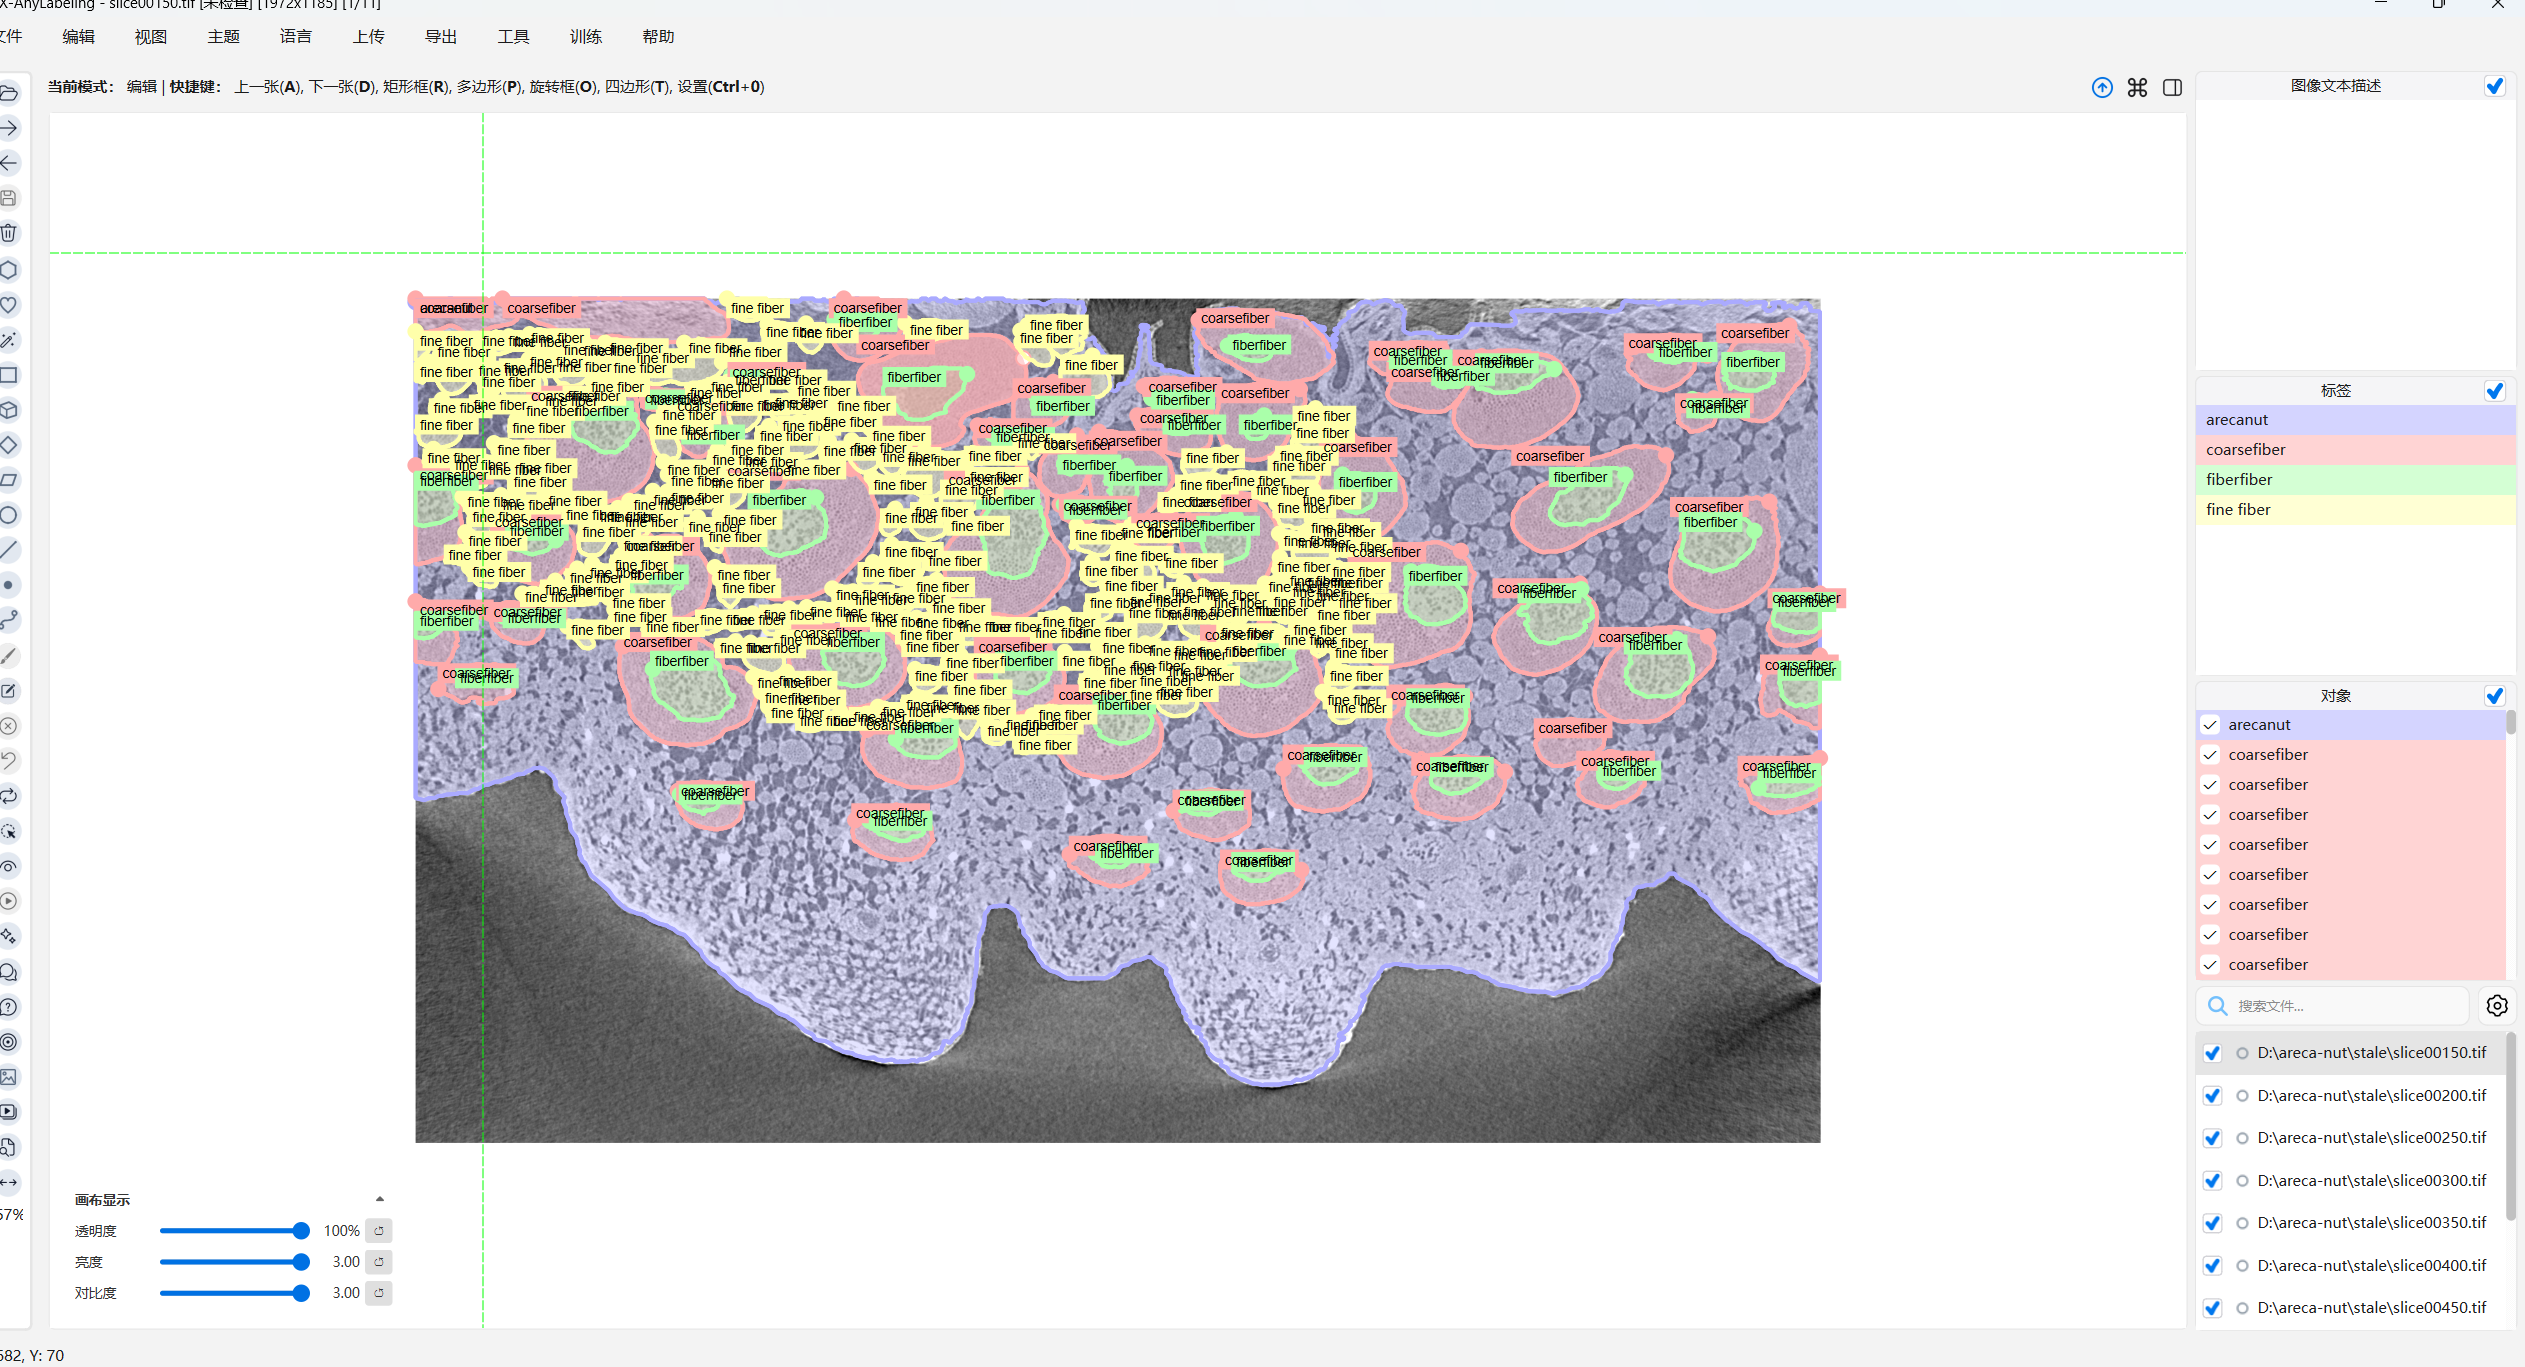
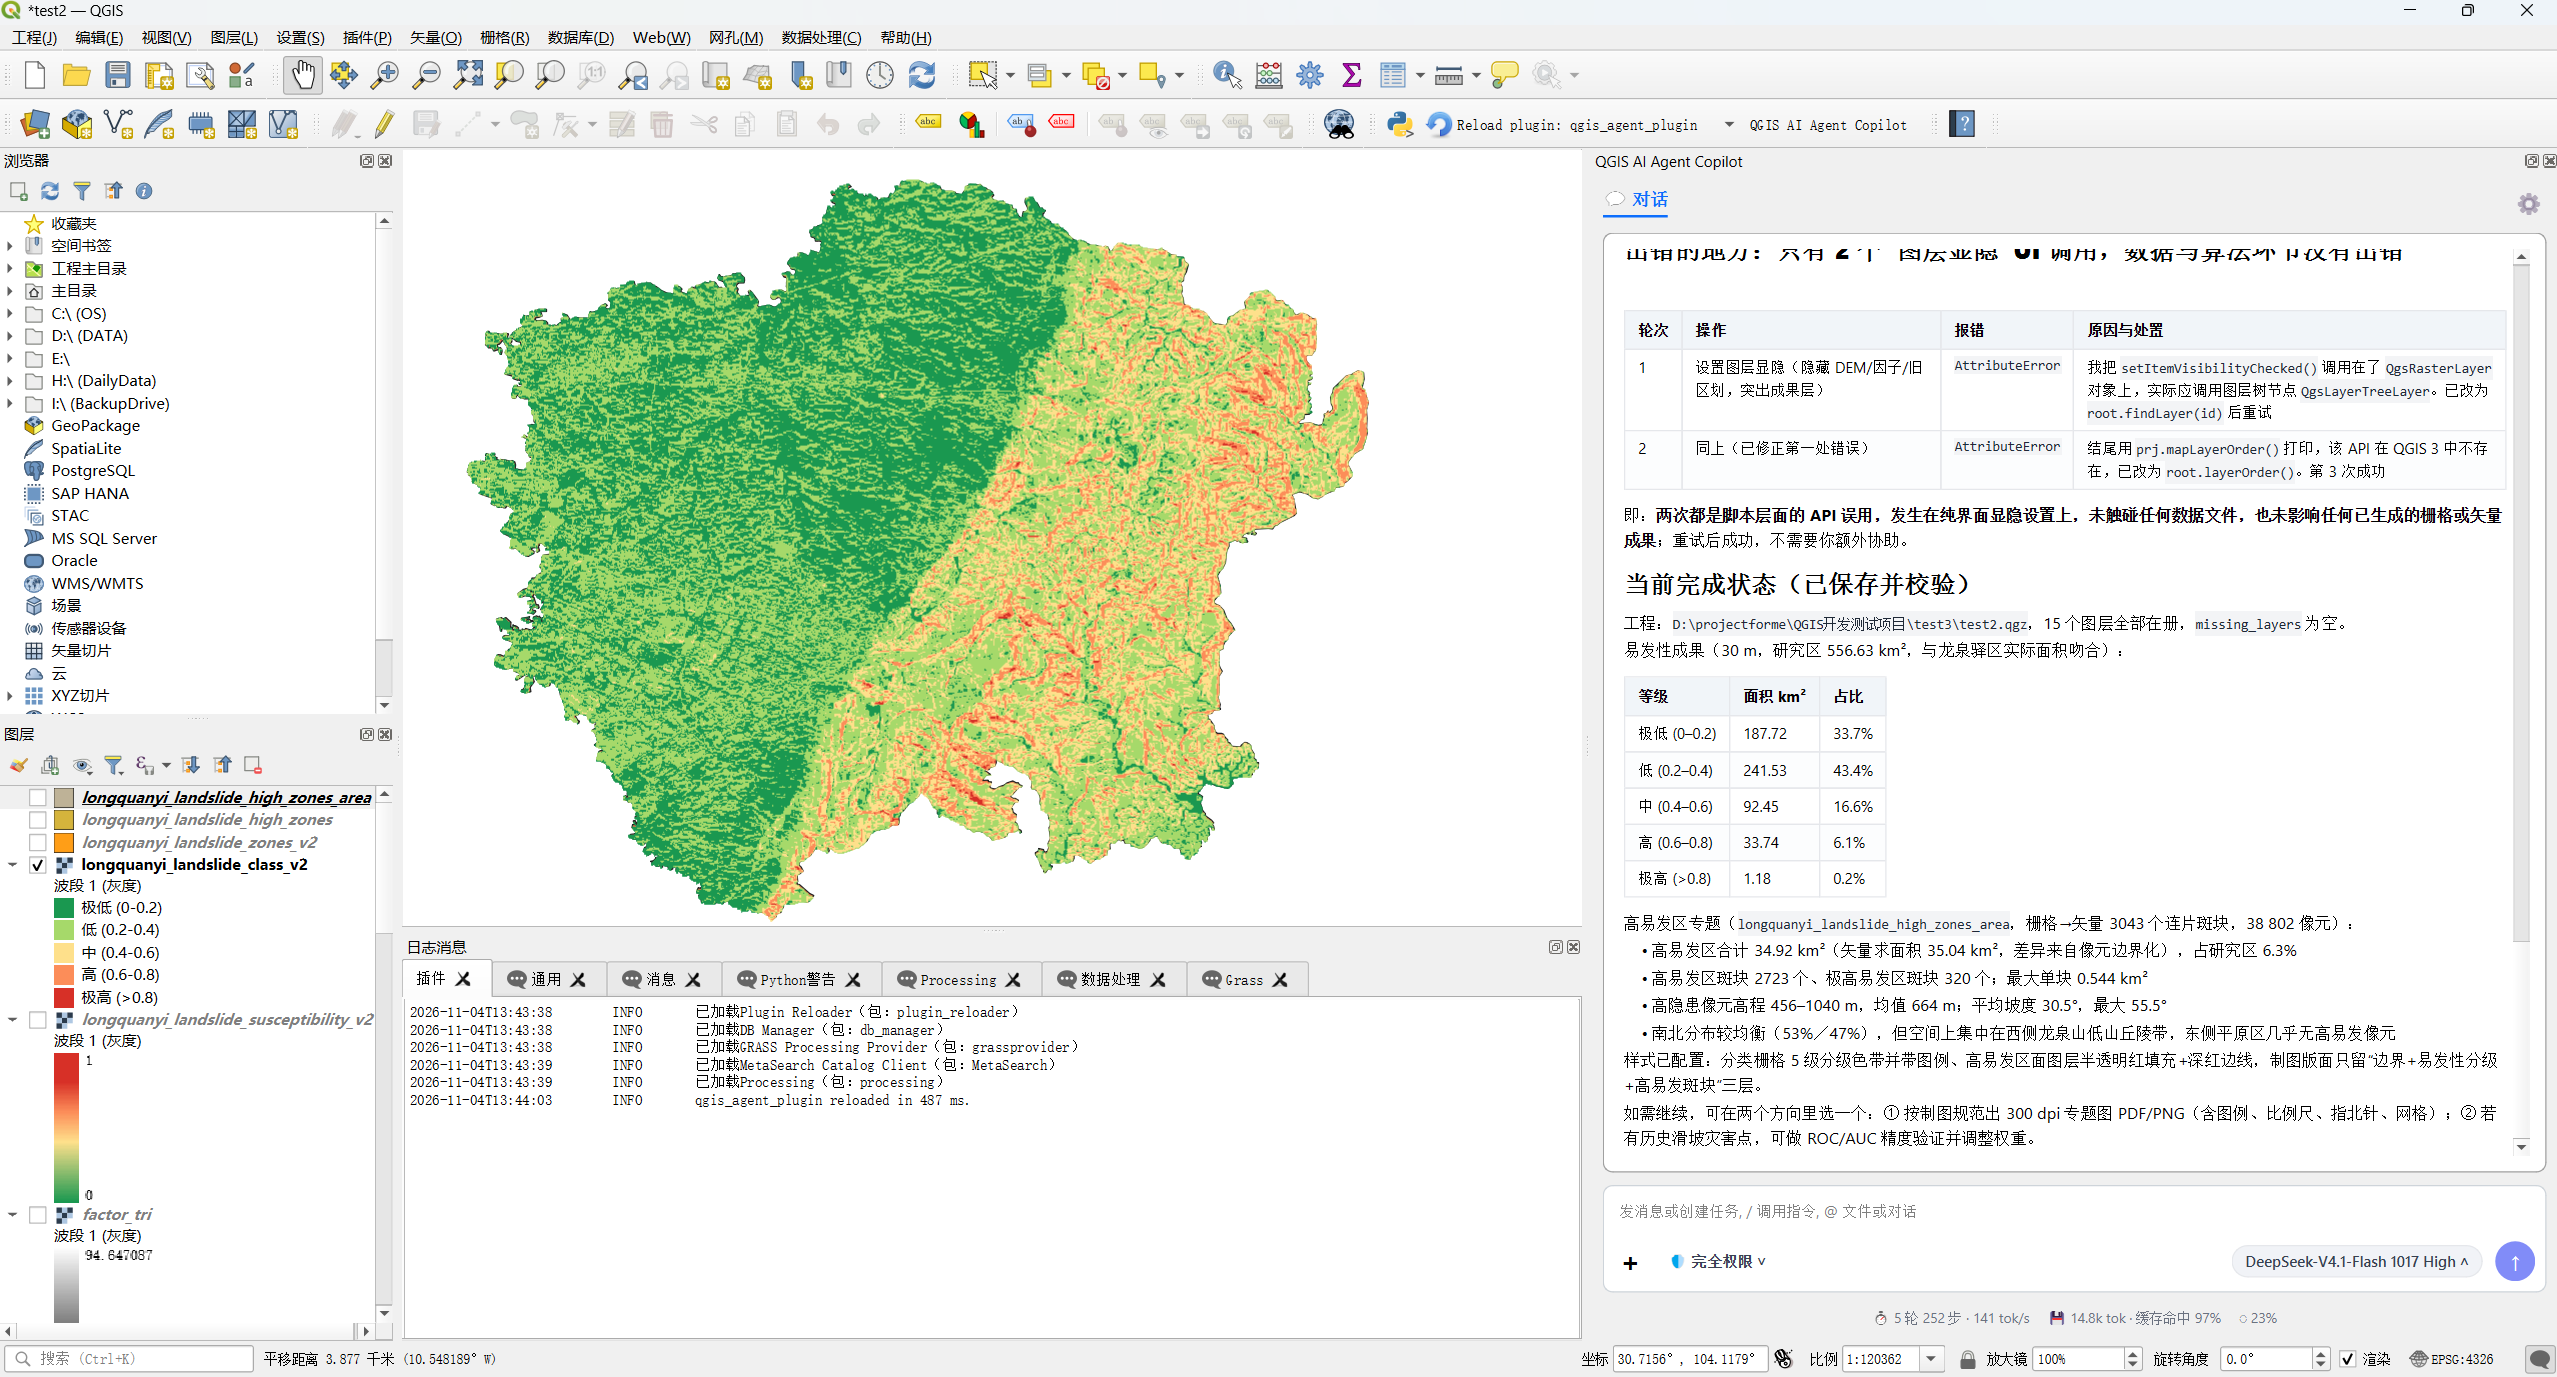
docs: showcase Longquanyi landslide susceptibility analysis and GEE task progress

diff --git a/README.md b/README.md
@@ -57,20 +57,20 @@
 
 <table>
 <tr>
-<td width="50%" align="center"><b>OSM 交通路网获取、裁剪与分级渲染</b></td>
-<td width="50%" align="center"><b>DEM 填洼、流向与水文分析</b></td>
+<td width="50%" align="center"><b>四川成都龙泉驿区：DEM 与多光谱指数协同滑坡易发性智能评价</b></td>
+<td width="50%" align="center"><b>遥感影像机器学习分类与跨区域迁移解译推理</b></td>
 </tr>
 <tr>
-<td><img src="docs/images/demo_osm_transport.png" alt="OSM 交通路网"/></td>
-<td><img src="docs/images/demo_dem_hydrology.png" alt="DEM 水文分析"/></td>
+<td><img src="docs/images/demo_landslide_risk.png" alt="成都市龙泉驿区滑坡易发性智能评价"/></td>
+<td><img src="docs/images/demo_ml_segmentation.png" alt="机器学习遥感解译分割"/></td>
 </tr>
 <tr>
-<td align="center"><b>遥感影像掩膜叠加与水体 / 植被指数计算</b></td>
-<td align="center"><b>机器学习模型训练与跨区域迁移分割推理</b></td>
+<td align="center"><b>遥感影像掩膜叠加与水体 / 植被多光谱指数计算</b></td>
+<td align="center"><b>OSM 交通路网获取、拓扑裁剪与分级专题制图</b></td>
 </tr>
 <tr>
 <td><img src="docs/images/demo_mask_index.png" alt="遥感指数与掩膜"/></td>
-<td><img src="docs/images/demo_ml_segmentation.png" alt="机器学习遥感解译分割"/></td>
+<td><img src="docs/images/demo_osm_transport.png" alt="OSM 交通路网"/></td>
 </tr>
 </table>
 
@@ -82,7 +82,13 @@
 - **步骤 2（模型训练与精度评估）**：自主训练随机森林等分类器，输出整体精度（OA 0.9767）、交并比（IoU 0.9594）与重要特征权重视图；
 - **步骤 3（未知区域推理分割）**：加载目标未知区域遥感影像，批量生成概率分布栅格与分类图层，自动完成连通域滤波与面积统计报表，全过程自动沉淀验证报告。
 
-#### 场景 2：OSM 矢量数据一键获取与智能制图
+#### 场景 2：基于 DEM 地貌与多光谱指数的滑坡易发性评价与危险区识别
+> **「以四川成都市龙泉驿区为研究区，综合 DEM 地形起伏与 NDWI/NDVI 遥感指数，开展滑坡地质灾害易发性多级评价与高风险区自动矢量圈定」**
+- **多源因子提取**：Agent 自动由 DEM 提取坡度、坡向、地形起伏度（TRI）及地表水文特征，协同计算水体指数（NDWI）与植被指数（NDVI）作为环境抑制与敏感因子；
+- **综合易发性建模与五级划分**：加权综合计算连续易发性指数，按行业规范自动五级划分（极低 0-0.2、低 0.2-0.4、中 0.4-0.6、高 0.6-0.8、极高 >0.8），全区 558.63 km² 自动化空间划分；
+- **高风险核心斑块矢量提取与报表统计**：自动提取高与极高易发区斑块（提炼出 2043 个斑块，核心风险区 34.92 km²，最大单块 0.544 km²），自动统计高程区间（456-1040 m，均值 684 m）与平均坡度 30.5°，保存工程并生成结构化地灾排查建议报表。
+
+#### 场景 3：OSM 矢量数据一键获取与智能制图
 > **「获取这个区域的交通矢量数据」**
 - 读取工程 AOI 边界并换算 WGS84 范围，调用 OSM 下载道路 842 条、铁路 60 条（需 VPN）；
 - 重投影至 UTM 平面投影并裁剪，按等级符号化渲染，统计路网总长 410.9 km 与路网密度 1.02 km/km² 并保存工程。
@@ -241,6 +247,9 @@ finally:
 <div align="center">
   <img src="docs/images/ui_metro_progress.png" width="750" alt="任务里程碑进度"/>
   <p><sub>任务里程碑进度条：中文节点、自动折行、圆润轨道与节点状态实时渲染</sub></p>
+  <br/>
+  <img src="docs/images/ui_gee_progress.png" width="750" alt="GEE 云端遥感任务进度与状态实时追踪"/>
+  <p><sub>GEE 云端遥感任务进度：阶段推进、服务端状态（RUNNING）与实时耗时智能追踪</sub></p>
 </div>
 
 ### 设置窗口
